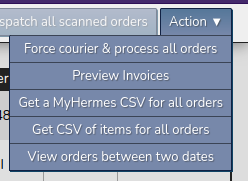
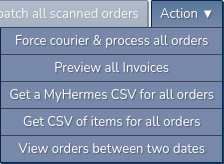
update README

diff --git a/README.md b/README.md
@@ -69,6 +69,12 @@ Checked orders result in `Process selected orders` being displayed:
 
 ![Image of process_all_orders](docs/imgs/process_selected_orders.png)
 
+The `Action` menu also has a `Preview Invoices` option that allows all historic order invoices to be previewed. Invoices are displayed without their original labels:
+
+![Image of invoice](docs/imgs/invoice.png)
+
+### Colour Codes / Courier Codes Legend
+
 The 'Colour Codes', in the `Key` drop-down, explains the meaning of the colours on the far left of the order's row. In the example shown, the first 2 orders are green *"Order has been marked and is ready to be dispatched"*, followed by red *"Order has been processed but not yet marked"* and grey *"Order is ready to be processed, unbarcoded"*.
 
 ![Image of view orders key](docs/imgs/vo_key.png)
@@ -123,7 +129,3 @@ It also displays a`Repeat last order` link in the `Items` section. When clicked,
 ![Image of reorder_repeat_last_order](docs/imgs/reorder_repeat_last_order.png)
 
 ## Invoices
-
-
-
-![Image of invoice](docs/imgs/invoice.png)
